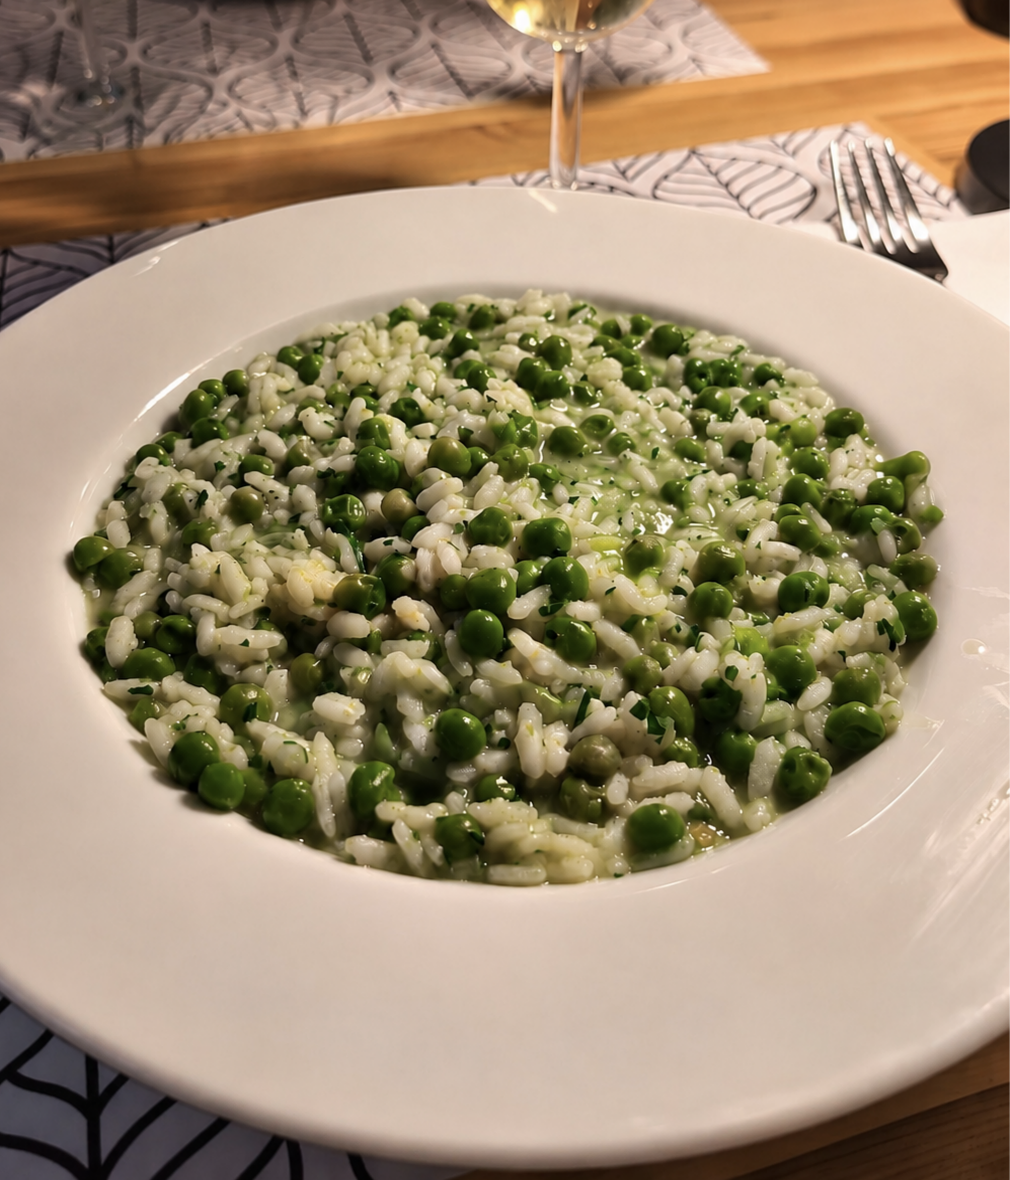
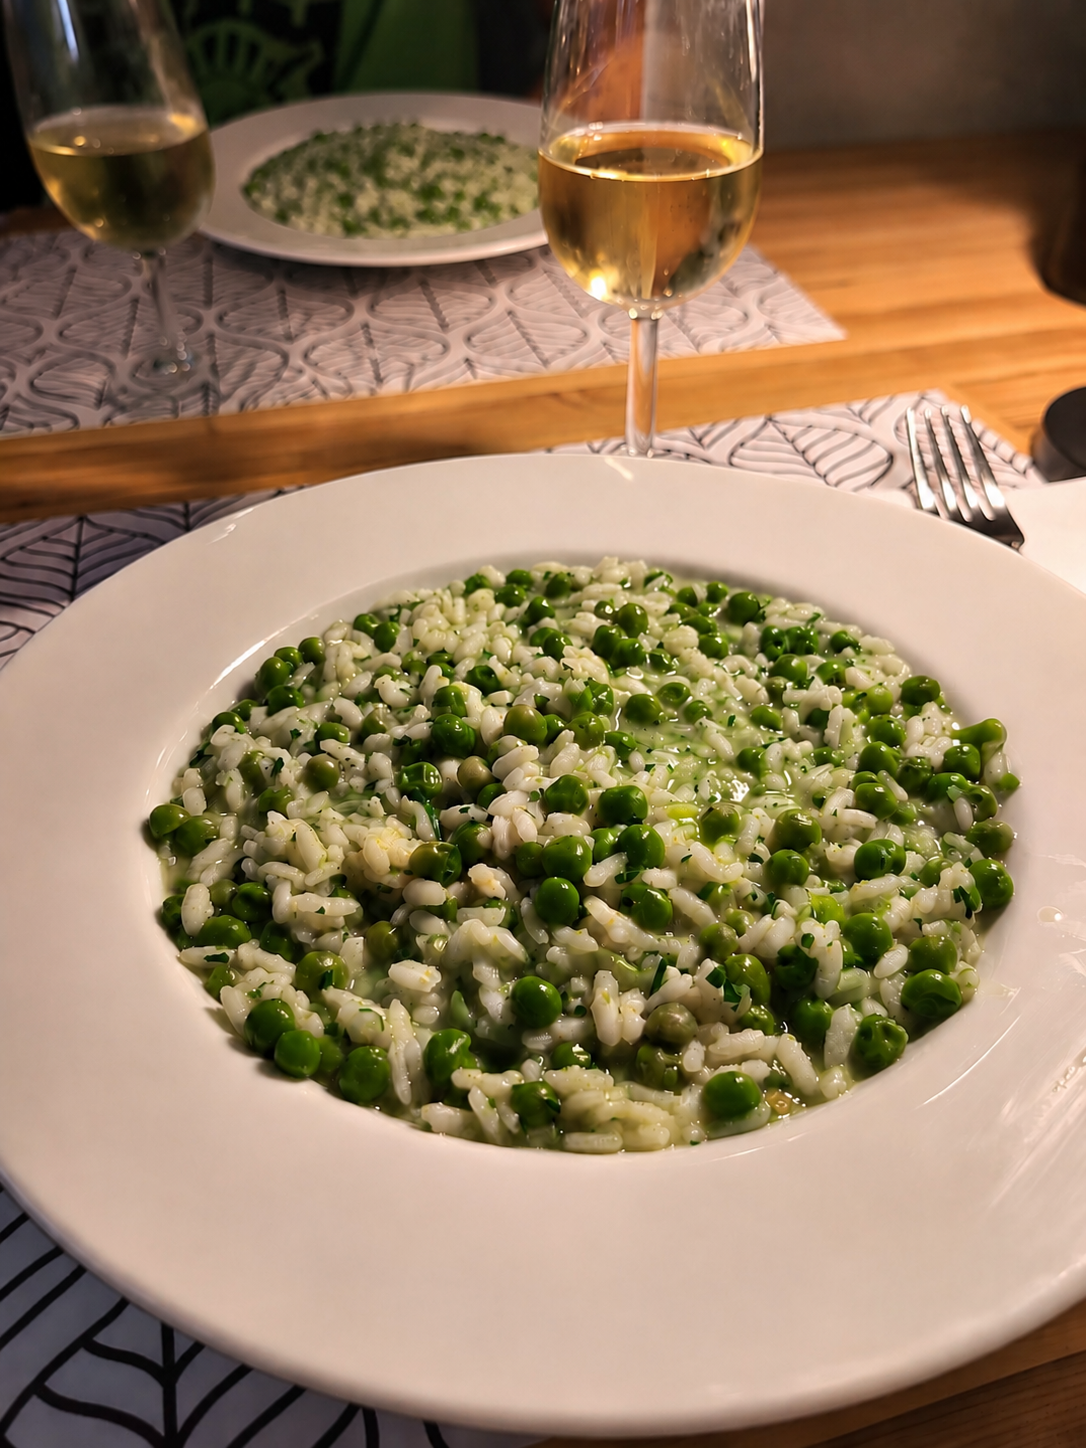
modifiche a fondo pagina

diff --git a/Ricetta.dc.html b/Ricetta.dc.html
@@ -231,16 +231,9 @@
     </sc-for>
   </div>
 
-  <!-- prev / next -->
-  <div style="display:flex; justify-content:space-between; gap:16px; padding:36px clamp(28px,5vw,64px) 48px; margin-top:24px; border-top:1px solid rgba(58,44,34,.12);">
-    <a href="{{ prevHref }}" style="{{ prevStyle }}">
-      <div style="font-family:'Courier Prime',monospace; font-size:11px; letter-spacing:.16em; text-transform:uppercase; color:#9E3F26; margin-bottom:6px;">{{ t.prev }}</div>
-      <div style="font-family:'DM Serif Display',serif; font-size:20px;">{{ prevName }}</div>
-    </a>
-    <a href="{{ nextHref }}" style="{{ nextStyle }}">
-      <div style="font-family:'Courier Prime',monospace; font-size:11px; letter-spacing:.16em; text-transform:uppercase; color:#9E3F26; margin-bottom:6px;">{{ t.next }}</div>
-      <div style="font-family:'DM Serif Display',serif; font-size:20px;">{{ nextName }}</div>
-    </a>
+  <!-- back to recipes -->
+  <div style="padding:36px clamp(28px,5vw,64px) 48px; margin-top:24px; border-top:1px solid rgba(58,44,34,.12);">
+    <a href="Il diario.dc.html" style="text-decoration:none; font-family:'Courier Prime',monospace; font-size:12px; letter-spacing:.14em; text-transform:uppercase; color:#9E3F26; border-bottom:1px solid #BE5A34; padding-bottom:3px;">{{ t.back }}</a>
   </div>
 
   <!-- footer -->
@@ -277,8 +270,8 @@ class Component extends DCLogic {
     const active = { fontWeight: 700, color: "#BE5A34", cursor: "pointer", letterSpacing: ".04em" };
     const idle = { fontWeight: 400, color: "#9A836C", cursor: "pointer", letterSpacing: ".04em" };
     const T = {
-      it: { brand: "Le ricette di Mara", navRecipes: "Ricette", navStory: "La nostra storia", navCal: "Calendario", navContact: "Contatti", back: "← Torna alle ricette", ingHead: "Ingredienti", stepHead: "Preparazione", prev: "Ricetta precedente", next: "Ricetta successiva", footer: "Questo sito non usa cookie.", privacyLink: "Privacy e riutilizzo →" },
-      en: { brand: "Mara's Recipes", navRecipes: "Recipes", navStory: "Our story", navCal: "Calendar", navContact: "Contact", back: "← Back to the recipes", ingHead: "Ingredients", stepHead: "Method", prev: "Previous recipe", next: "Next recipe", footer: "This site does not use cookies.", privacyLink: "Privacy & reuse →" }
+      it: { brand: "Le ricette di Mara", navRecipes: "Ricette", navStory: "La nostra storia", navCal: "Calendario", navContact: "Contatti", back: "← Torna al diario delle ricette", ingHead: "Ingredienti", stepHead: "Preparazione", footer: "Questo sito non usa cookie.", privacyLink: "Privacy e riutilizzo →" },
+      en: { brand: "Mara's Recipes", navRecipes: "Recipes", navStory: "Our story", navCal: "Calendar", navContact: "Contact", back: "← Back to the recipe diary", ingHead: "Ingredients", stepHead: "Method", footer: "This site does not use cookies.", privacyLink: "Privacy & reuse →" }
     };
     const base = {
       t: T[lang],
@@ -292,12 +285,9 @@ class Component extends DCLogic {
 
     const DB = window.MARA_RECIPES;
     if (!DB || !this.state.id || !DB.recipes[this.state.id]) {
-      return { ...base, r: {}, ingredients: [], steps: [], notes: [], leftNotes: [], rightNotes: [], hasSingleNote: false, singleNote: {}, hasStackedImg: false, hasFanImg: false, fanPhotos: [], hasFramedImg: false, hasPlainImg: false, pinStyle: {}, provenance: "",
-        prevHref: "#", nextHref: "#", prevName: "", nextName: "",
-        prevStyle: { visibility: "hidden", flex: "1" }, nextStyle: { visibility: "hidden", flex: "1" } };
+      return { ...base, r: {}, ingredients: [], steps: [], notes: [], leftNotes: [], rightNotes: [], hasSingleNote: false, singleNote: {}, hasStackedImg: false, hasFanImg: false, fanPhotos: [], hasFramedImg: false, hasPlainImg: false, pinStyle: {}, provenance: "" };
     }
 
-    const order = DB.order.filter(k => DB.recipes[k] && DB.recipes[k].published);
     const id = this.state.id;
     const src = DB.recipes[id];
 
@@ -380,20 +370,8 @@ class Component extends DCLogic {
       ? "Ricetta tratta dalla mail di mamma del " + src.date.it + ". Ho uniformato il formato; il testo della ricetta resta il suo."
       : "From Mum's email of " + src.date.en + ". I've made the format consistent; the recipe text stays hers.";
 
-    const idx = order.indexOf(id);
-    const prevId = idx > 0 ? order[idx - 1] : null;
-    const nextId = idx >= 0 && idx < order.length - 1 ? order[idx + 1] : null;
-    const linkBase = { textDecoration: "none", color: "#3A2C22", flex: "1", padding: "18px 22px", background: "#FFFDF6", border: "1px solid rgba(58,44,34,.16)" };
-    const hidden = { visibility: "hidden", flex: "1" };
-
     return {
-      ...base, r, ingredients, steps, notes, leftNotes, rightNotes, hasSingleNote, singleNote, hasStackedImg, hasFanImg, fanPhotos, hasFramedImg, hasPlainImg, pinStyle, provenance,
-      prevHref: prevId ? "Ricetta.dc.html?r=" + prevId : "#",
-      nextHref: nextId ? "Ricetta.dc.html?r=" + nextId : "#",
-      prevName: prevId ? DB.recipes[prevId].name[lang] : "",
-      nextName: nextId ? DB.recipes[nextId].name[lang] : "",
-      prevStyle: prevId ? { ...linkBase, textAlign: "left" } : hidden,
-      nextStyle: nextId ? { ...linkBase, textAlign: "right" } : hidden
+      ...base, r, ingredients, steps, notes, leftNotes, rightNotes, hasSingleNote, singleNote, hasStackedImg, hasFanImg, fanPhotos, hasFramedImg, hasPlainImg, pinStyle, provenance
     };
   }
 }

diff --git a/recipes.js b/recipes.js
@@ -172,11 +172,11 @@ window.MARA_RECIPES = {
       img: "photos/risiebisi.png",
       photo: { it: "[ foto: i risi e bisi appena mantecati ]", en: "[ photo: the freshly creamed risi e bisi ]" },
       ing: {
-        it: ["700 g di piselli freschi", "350 g di riso Carnaroli", "2 cipollotti freschi oppure 1 cipolla", "2 cucchiai di olio extravergine di oliva", "40 g di burro", "circa 1,2 l di brodo vegetale caldo", "50 g di Parmigiano Reggiano grattugiato", "abbondante prezzemolo tritato", "sale"],
-        en: ["700 g fresh peas", "350 g Carnaroli rice", "2 fresh spring onions or 1 onion", "2 tbsp extra-virgin olive oil", "40 g butter", "about 1.2 l hot vegetable stock", "50 g grated Parmigiano Reggiano", "plenty of chopped parsley", "salt"]
+        it: ["700 g di piselli freschi", "350 g di riso Carnaroli", "2 cipollotti freschi oppure 1 cipolla", "2 cucchiai di olio extravergine di oliva", "40 g di burro", "circa 1,2 l di brodo vegetale", "50 g di Parmigiano Reggiano grattugiato", "abbondante prezzemolo tritato", "sale"],
+        en: ["700 g fresh peas", "350 g Carnaroli rice", "2 fresh spring onions or 1 onion", "2 tbsp extra-virgin olive oil", "40 g butter", "about 1.2 l vegetable stock", "50 g grated Parmigiano Reggiano", "plenty of chopped parsley", "salt"]
       },
       steps: {
-        it: ["Scalda il brodo e mantienilo caldo.", "In una casseruola fai appassire dolcemente i cipollotti affettati con l'olio, senza lasciarli colorire. Aggiungi i piselli, sala leggermente e cuocili per 10-15 minuti, bagnandoli con un po' di brodo caldo.", "Preleva qualche cucchiaio di piselli e frullali subito con uno o due cubetti di ghiaccio: il ghiaccio aiuta a preservarne il colore brillante, mentre la crema renderà il piatto ancora più vellutato. Tieni da parte la crema ottenuta.", "Nel frattempo aggiungi il riso ai piselli e lascialo tostare per circa un minuto, mescolando bene.", "Prosegui la cottura aggiungendo il brodo poco alla volta, man mano che viene assorbito.", "Un minuto prima di terminare la cottura incorpora la crema di piselli e mescola bene. Se necessario aggiungi ancora un po' di brodo caldo: i risi e bisi devono rimanere morbidi e ben all'onda.", "Spegni il fuoco, aggiungi il burro, il Parmigiano e abbondante prezzemolo tritato. Manteca energicamente, lascia riposare un minuto e servi subito."],
+        it: ["Scalda il brodo e mantienilo caldo.", "In una casseruola fai appassire dolcemente nell'olio i cipollotti affettati, senza lasciarli colorire. Aggiungi i piselli, sala leggermente e cuocili per 10-15 minuti, bagnandoli con un po' di brodo caldo.", "Preleva qualche cucchiaio di piselli e frullali subito con uno o due cubetti di ghiaccio: il ghiaccio aiuta a preservarne il colore brillante, mentre la crema renderà il piatto ancora più vellutato. Tieni da parte la crema ottenuta.", "Nel frattempo aggiungi il riso ai piselli e lascialo tostare per circa un minuto, mescolando bene.", "Prosegui la cottura aggiungendo il brodo poco alla volta, man mano che viene assorbito.", "Un minuto prima di terminare la cottura incorpora la crema di piselli e mescola bene. Se necessario aggiungi ancora un po' di brodo caldo: i risi e bisi devono rimanere morbidi e ben all'onda.", "Spegni il fuoco, aggiungi il burro, il Parmigiano e abbondante prezzemolo tritato. Manteca energicamente, lascia riposare un minuto e servi subito."],
         en: ["Heat the stock and keep it hot.", "In a saucepan, gently sweat the sliced spring onions in the oil, without letting them colour. Add the peas, season lightly with salt and cook for 10-15 minutes, moistening with a little hot stock.", "Set aside a few spoonfuls of peas and blend them right away with one or two ice cubes: the ice helps keep their bright colour, while the purée will make the dish even creamier. Set the purée aside.", "Meanwhile, add the rice to the peas and toast it for about a minute, stirring well.", "Continue cooking, adding the stock a little at a time as it is absorbed.", "A minute before the rice is done, stir in the pea purée and mix well. If needed, add a little more hot stock: risi e bisi should stay soft and loose, almost soupy.", "Turn off the heat, add the butter, the Parmigiano and plenty of chopped parsley. Beat vigorously to cream it, let it rest for a minute and serve immediately."]
       },
       notes: [

diff --git a/Il diario.dc.html b/Il diario.dc.html
@@ -206,12 +206,15 @@ class Component extends DCLogic {
     const catColorMap = {};
     seen.forEach((c, i) => { catColorMap[c.key] = CAT_PALETTE[i % CAT_PALETTE.length]; });
 
+    const MONTH_ORDER_IT = ["gennaio", "febbraio", "marzo", "aprile", "maggio", "giugno", "luglio", "agosto", "settembre", "ottobre", "novembre", "dicembre"];
+
     const allEntries = DB.order.map((id) => {
       const x = DB.recipes[id];
       const ingText = (x.ing[langKey] || []).map(s => s.replace(/^§/, "")).join(" ");
       return {
         href: x.published ? "Ricetta.dc.html?r=" + id : "#",
         date: x.day + " " + (en ? x.mEn : x.mIt) + " 2004",
+        sortKey: MONTH_ORDER_IT.indexOf(x.mIt) * 100 + parseInt(x.day, 10),
         name: x.name[langKey],
         cat: x.cat[langKey],
         catKey: x.cat.it,
@@ -221,10 +224,9 @@ class Component extends DCLogic {
         coming: !x.published
       };
     });
-    // Le ricette "in arrivo" (non ancora pubblicate) vanno sempre in fondo all'elenco,
-    // dopo tutte quelle pubblicate; l'ordine relativo all'interno dei due gruppi resta
-    // quello di DB.order.
-    allEntries.sort((a, b) => (a.pub === b.pub) ? 0 : (a.pub ? -1 : 1));
+    // Ordine cronologico per data; le ricette "in arrivo" (non ancora pubblicate)
+    // vanno comunque sempre in fondo all'elenco, dopo tutte quelle pubblicate.
+    allEntries.sort((a, b) => (a.pub === b.pub) ? (a.sortKey - b.sortKey) : (a.pub ? -1 : 1));
 
     // Ordine di visualizzazione dei filtri (fisso, non legato all'ordine di comparsa
     // usato per i colori); le categorie non elencate qui finiscono in coda.
